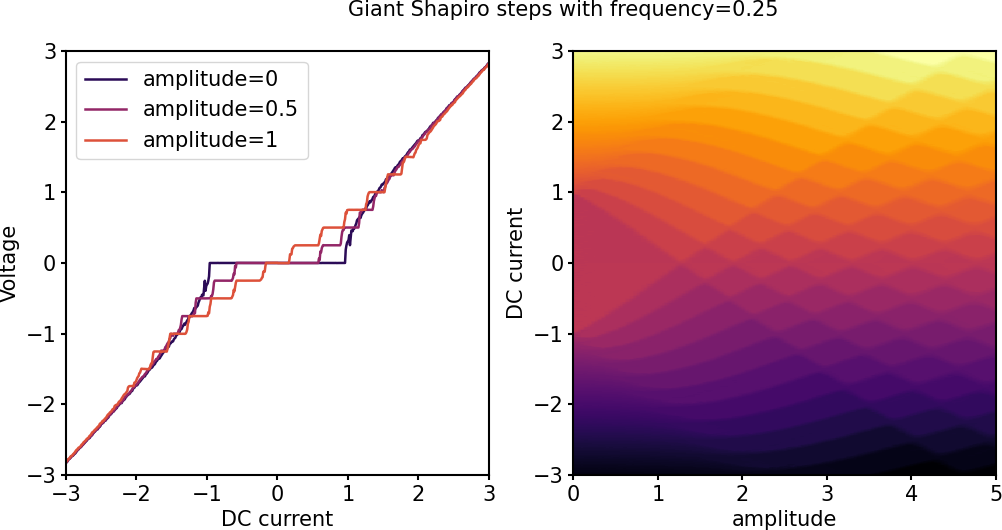
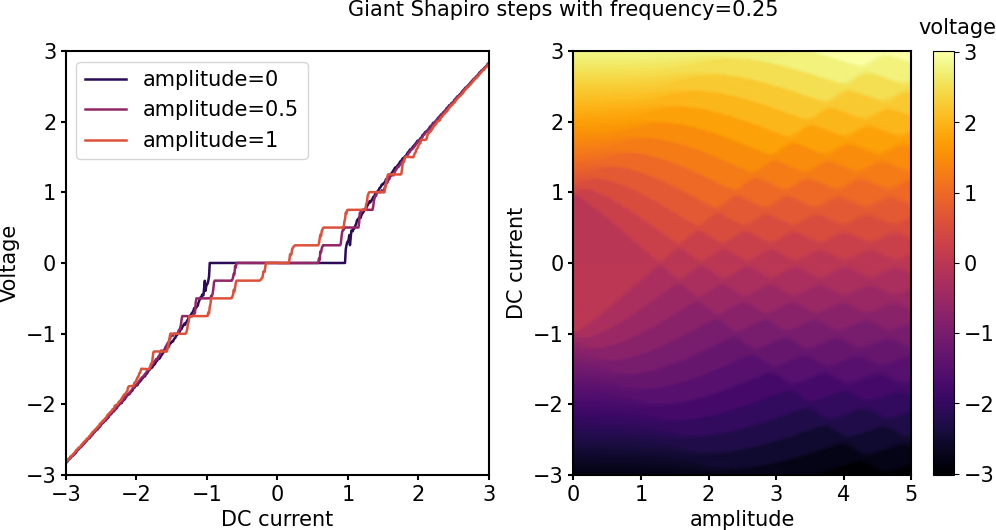
modified examples

diff --git a/examples/images/shapiro_steps.py b/examples/images/shapiro_steps.py
@@ -69,11 +69,11 @@ if __name__ == "__main__":
         IAmpList = np.load(ffile)
         Vout = np.load(ffile)
 
-    fig, (a1, a2) = plt.subplots(nrows=1, ncols=2, figsize=[12, 6])
-    print(fig, (a1, a2))
-    a2.pcolor(IAmpList, IDC, Vout.T)
-    a2.set_xlabel("AC current")
-    a2.set_ylabel("DC current")
+    # fig, (a1, a2) = plt.subplots(nrows=1, ncols=2, figsize=[12, 6])
+    # print(fig, (a1, a2))
+    # a2.pcolor(IAmpList, IDC, Vout.T)
+    # a2.set_xlabel("AC current")
+    # a2.set_ylabel("DC current")
 
     X, Y = np.meshgrid(IDC, IAmpList)
     print(X.shape, Vout.shape)
@@ -83,7 +83,7 @@ if __name__ == "__main__":
     fig2, (a12, a22) = plt.subplots(nrows=1, ncols=2, figsize=[12, 5.5])
     IDCp = np.linspace(-3, 3, 8 * ND)
     IACp = np.linspace(0, 5, 3 * NA)
-    a22.pcolor(IACp, IDCp, F(IDCp,  IACp).T, cmap="inferno")
+    phandle = a22.pcolor(IACp, IDCp, F(IDCp,  IACp).T, cmap="inferno")
     a22.set_xlabel("amplitude")
     a22.set_ylabel("DC current")
     # fig2.colorbar()
@@ -95,6 +95,7 @@ if __name__ == "__main__":
     a12.set_ylabel("Voltage")
     a12.legend()
     a12.text(1, 3.5, "Giant Shapiro steps with frequency=0.25")
+    a22.text(5.1, 3.25, "voltage")
     a12.set_xlim([-3, 3])
     a12.set_ylim([-3, 3])
 
@@ -108,7 +109,7 @@ if __name__ == "__main__":
     a12.tick_params(width=lw)
     a22.tick_params(width=lw)
     # plt.title("giant shapiro steps in square array")
-
+    plt.colorbar(phandle)
     fig2.savefig('shapiro_steps.png', bbox_inches=fig2.get_tightbbox(fig2.canvas.get_renderer()))
     plt.show()
 
